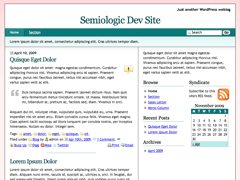
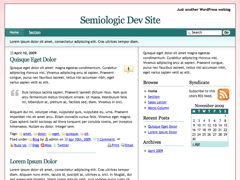
desaturate teal skins
git-svn-id: file:///Users/michaelkoepke/svn/semiologic@3326 6c9c31c4-cb3d-4424-af3d-876279169c7e

Changed region(s): [[0.0, 0.1389, 0.9917, 0.2222], [0.8167, 0.5833, 0.9625, 0.6389]]

diff --git a/skins/boxed-teal/trunk/skin.css b/skins/boxed-teal/trunk/skin.css
@@ -343,13 +343,13 @@ html {
 
 /*
  * Scheme Colors
- * H180 S95 L45
+ * H180 S70 L45
  */
 
 #navbar,
 .widget_calendar thead,
 .widget_title h2 {
-	background-color: #067878; /* - */
+	background-color: #237575; /* - */
 	color: #fff;
 }
 
@@ -367,7 +367,7 @@ html {
 #sitename,
 .entry_header h1,
 .archives_header h1 {
-	color: #044f4f; /* L30 */
+	color: #184f4f; /* L30 */
 }
 
 #navbar a {
@@ -384,7 +384,7 @@ html {
 
 #navbar_bg,
 #go {
-	border-color: #033b3b; /* B/2 */
+	border-color: #123b3b; /* B/2 */
 }
 
 .widget_calendar thead,

diff --git a/skins/copywriter-teal/trunk/skin.css b/skins/copywriter-teal/trunk/skin.css
@@ -352,18 +352,18 @@ html,
 
 /*
  * Scheme Colors
- * H180 S95 L45
+ * H180 S70 L45
  */
 
 #navbar,
 #footer,
 .widget_calendar thead {
-	background-color: #067878; /* - */
+	background-color: #237575; /* - */
 	color: #fff;
 }
 
 #header {
-	background-color: #b9eded; /* L85 */
+	background-color: #96e3e3; /* L85 */
 	color: #000;
 }
 
@@ -403,7 +403,7 @@ html,
 #header_top_wrapper,
 #header_middle_wrapper,
 #footer_top_wrapper {
-	border-color: #033b3b; /* B/2 */
+	border-color: #123b3b; /* B/2 */
 }
 
 #footer_wrapper,

diff --git a/skins/classy-teal/trunk/skin.css b/skins/classy-teal/trunk/skin.css
@@ -339,12 +339,12 @@ html {
 
 /*
  * Scheme Colors
- * H180 S95 L45
+ * H180 S70 L45
  */
 
 #navbar,
 .widget_calendar thead {
-	background-color: #067878; /* - */
+	background-color: #237575; /* - */
 	color: #fff;
 }
 
@@ -368,7 +368,7 @@ html {
 #sitename,
 .entry_header h1,
 .archives_header h1 {
-	color: #044f4f; /* L30 */
+	color: #184f4f; /* L30 */
 }
 
 #navbar a {
@@ -389,7 +389,7 @@ html {
 
 #navbar_bg,
 #go {
-	border-color: #033b3b; /* B/2 */
+	border-color: #123b3b; /* B/2 */
 }
 
 .widget_calendar thead {

diff --git a/skins/light-teal/trunk/skin.css b/skins/light-teal/trunk/skin.css
@@ -304,12 +304,12 @@ html,
 
 /*
  * Scheme Colors
- * H180 S95 L45
+ * H180 S70 L45
  */
 
 #navbar,
 .widget_calendar thead {
-	background-color: #067878; /* - */
+	background-color: #237575; /* - */
 	color: #fff;
 }
 
@@ -327,7 +327,7 @@ html,
 #sitename,
 .entry_header h1,
 .archives_header h1 {
-	color: #044f4f; /* L30 */
+	color: #184f4f; /* L30 */
 }
 
 #navbar a {
@@ -349,7 +349,7 @@ html,
 
 #navbar,
 #go {
-	border-color: #033b3b; /* B/2 */
+	border-color: #123b3b; /* B/2 */
 }
 
 .widget_calendar thead {

diff --git a/skins/classic-teal/trunk/skin.css b/skins/classic-teal/trunk/skin.css
@@ -314,12 +314,12 @@ html {
 
 /*
  * Scheme Colors
- * H180 S95 L45
+ * H180 S70 L45
  */
 
 #navbar,
 .widget_calendar thead {
-	background-color: #067878; /* - */
+	background-color: #237575; /* - */
 	color: #fff;
 }
 
@@ -346,7 +346,7 @@ html {
 #sitename,
 .entry_header h1,
 .archives_header h1 {
-	color: #044f4f; /* L30 */
+	color: #184f4f; /* L30 */
 }
 
 #navbar a {
@@ -367,7 +367,7 @@ html {
 }
 
 #go {
-	border-color: #033b3b; /* B/2 */
+	border-color: #123b3b; /* B/2 */
 }
 
 #wrapper,

diff --git a/skins/kubrick-teal/trunk/skin.css b/skins/kubrick-teal/trunk/skin.css
@@ -250,12 +250,12 @@ html {
 
 /*
  * Scheme Colors
- * H180 S95 L45
+ * H180 S70 L45
  */
 
 #header,
 .widget_calendar thead {
-	background-color: #067878; /* - */
+	background-color: #237575; /* - */
 	color: #fff;
 }
 
@@ -271,7 +271,7 @@ html {
 }
 
 .entry_header h1 {
-	color: #044f4f; /* L30 */
+	color: #184f4f; /* L30 */
 }
 
 #tagline {
@@ -284,7 +284,7 @@ html {
 }
 
 #header_img {
-	border-color: #033b3b; /* B/2 */
+	border-color: #123b3b; /* B/2 */
 }
 
 .widget_calendar thead {
